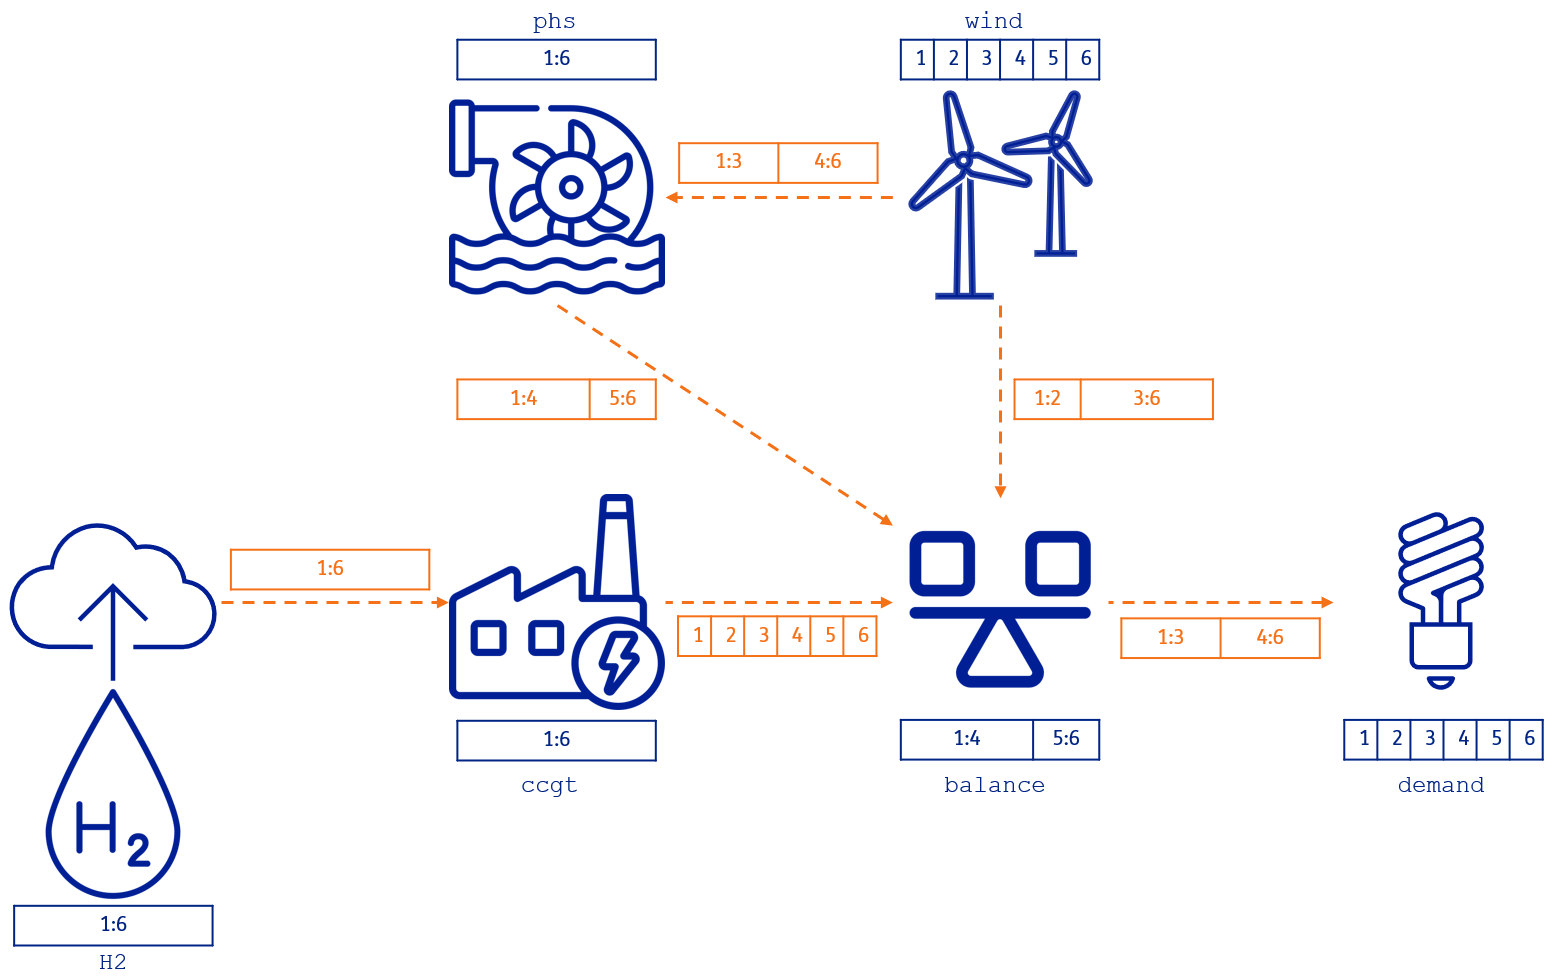
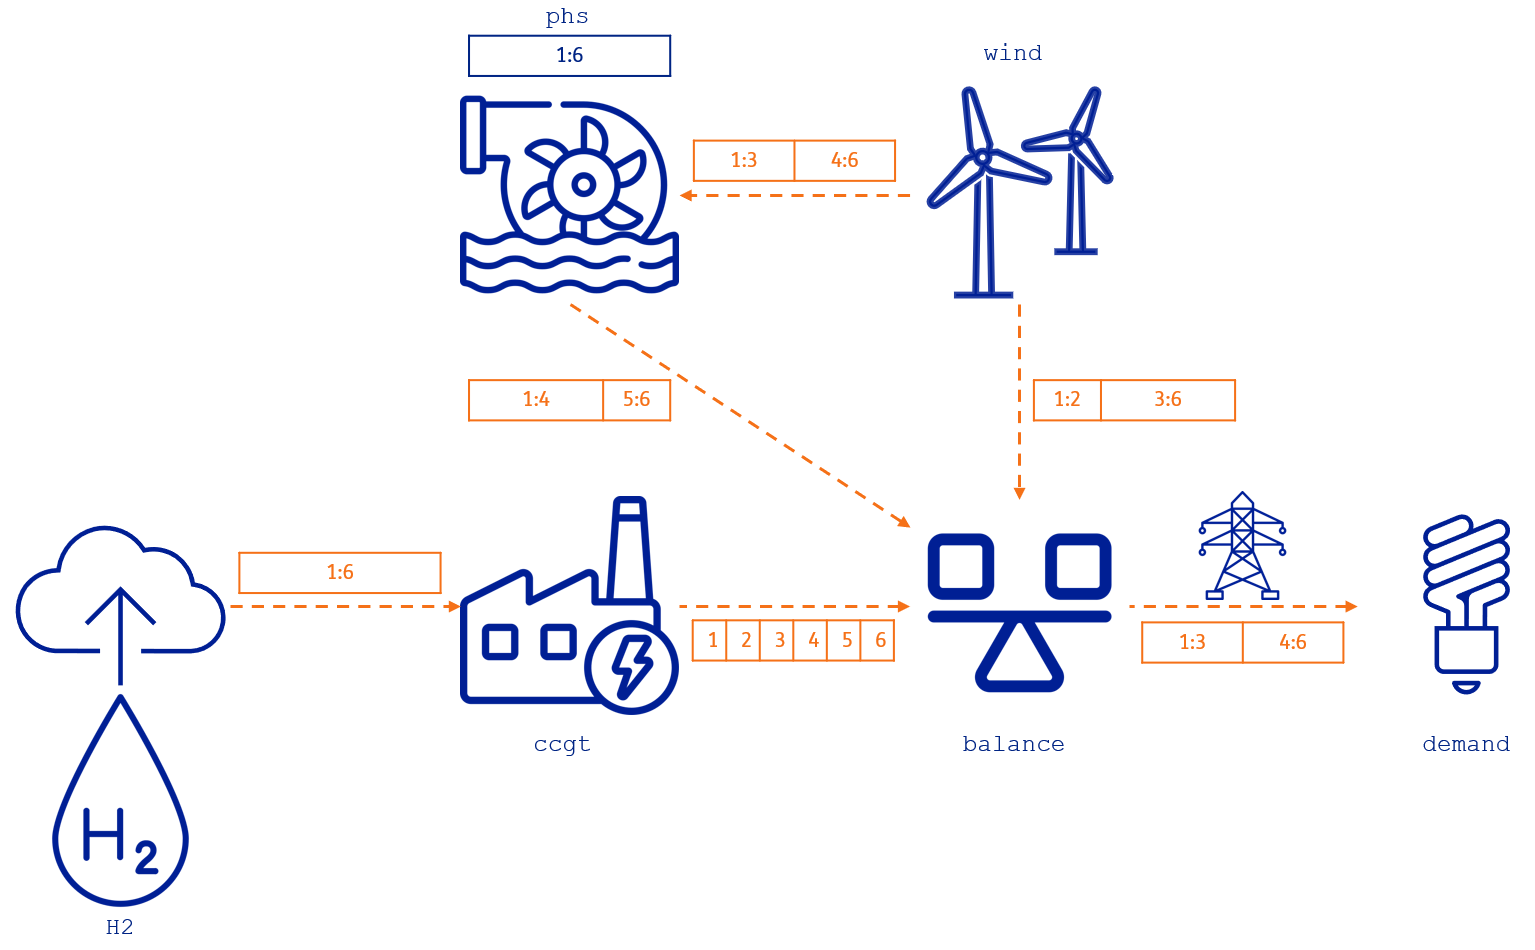
Updates on the feature section (#363)
* Updates on the feature section

* Update flexible connection in the feature section

* Fix how-to-use section

* Apply suggestions from code review

* Apply suggestion from code review

* Update text with comments from the review

---------

diff --git a/docs/src/features.md b/docs/src/features.md
@@ -7,26 +7,81 @@
   - Consumer: electricity demand, heat demand
   - Storage: battery, pumped-hydro storage
   - Balancing Hub: electricity network that serves as a connection among other energy assets
-  - Conversion: power plants, electrolizers
+  - Conversion: power plants, electrolyzers
 - **Flows**: representation of the connections among assets, e.g., pipelines, transmission lines, or just simple the energy production that goes from one asset to another.
 
-This section explains the main features in the optimization model inside the model based on these definitions.
+The model guarantees a balance of energy for the various types of assets while considering the flow limits. The [`mathematical formulation`](@ref math-formulation) defines the flow variable ($v^{flow}_{f,rp,k}$) as the instantaneous value (e.g., power in MW) for each flow $f$ between two assets, representative period $rp$, and time step $k$. The time step $k$ can represent a single time step (e.g., 1, 2, 3...) or a range of time steps (e.g., 1:2, meaning that the variable represents the value of both time steps 1 and 2). For more examples and details on this topic, refer to the section on [flexible time resolution](@ref flex-time-res).
 
-## [Flexible Connexion of Energy Assets](@id flex-asset-connexion)
+The following sections explain the main features in the optimization model inside the model based on all these concepts and definitions.
 
-The representation of the energy system in *TulipaEnergyModel.jl* is based on [Graph Theory](https://www.britannica.com/topic/graph-theory), which deals with connection amongst vertices by edges. This representation provides a more flexible framework to model *energy assets* in the system as *vertices* and *flows* between energy assets as *edges*. In addition, it poses some advantages from the modelling perspective. For instance, connecting assets directly to each other without having a node between them allows for a reduction of the number of variables and constraints to represent different configurations (e.g., co-location of energy storage and renewable units to model a hybrid operation).
+## [Flexible Connection of Energy Assets](@id flex-asset-connection)
+
+The representation of the energy system in *TulipaEnergyModel.jl* is based on [Graph Theory](https://www.britannica.com/topic/graph-theory), which deals with connection amongst vertices by edges. This representation provides a more flexible framework to model *energy assets* in the system as *vertices* and *flows* between energy assets as *edges*. In addition, it poses some advantages from the modeling perspective. For instance, connecting assets directly to each other without having a node between them allows for a reduction of the number of variables and constraints to represent different configurations. For instance, it is becoming more and more common to have hybrid assets like `storage + renewable` (e.g., battery + solar), `electrolyzer + renewable` (e.g., electrolyzer + wind), or `renewable + hydro` (e.g., solar + hydro) that are located in the same site and share a common connection point to the grid.
+In hybrid configurations, flows from the grid are typically not allowed as they either do not permit charging from the grid or require green hydrogen production depending on the configuration.
+
+Consider the following example to demonstrate the benefits of this approach. In the classic connection approach, the nodes play a crucial role in modeling. For example, every asset needs to be connected to a node with balance constraints. When a storage asset and a renewable asset are in a hybrid connection like the one described before, a connection point is needed to connect the hybrid configuration to the rest of the system. Therefore, to consider the hybrid configuration of a storage asset and a renewable asset, we must introduce a node (i.e., a connection point) between these assets and the external power grid (i.e., a balance point), as shown in the following figure:
+
+![Classic connection](./figs/flexible-connection-1.png)
+
+In this system, the `phs` storage asset charges and discharges from the `connection point`, while the `wind` turbine produces power that also goes directly to the `connection point`. This `connection point` is connected to the external power grid through a transmission line that leads to a `balance` hub with/connecting to other assets. Essentially, the `connection point` acts as a balancing hub point for the assets in this hybrid configuration. Furthermore, these hybrid configuration impose an additional constraint to ensure that storage charges from the power grid are avoided. The section with [`comparison of different modeling approaches`](@ref comparison) shows the quantification of these reductions.
+
+Let's consider the modeling approach in *TulipaEnergyModel.jl*. As nodes are no longer needed to connect assets, we can connect them directly to each other as shown in the figure below:
+
+![Flexible connection](./figs/flexible-connection-2.png)
+
+By implementing this approach, we can reduce the number of variables and constraints involved in the process. For example, the balance constraint in the intermediate node is no longer needed, as well as the extra constraint to avoid the storage charging from the power grid.  Additionally, we can eliminate the variable that determines the flow between the intermediate node and the power grid because the flow from `phs` to `balance` can directly link to the external grid.
+
+The example here shows the connection of a `phs` and a `wind` asset, illustrating the modeling approach's advantages and the example's reusability in the following sections. However, other applications of these co-location (or hybrid) combinations of assets are battery-solar, hydro-solar, and electrolyzer-wind.
 
 ## [Flexible Time Resolution](@id flex-time-res)
 
-One of the core features of *TulipaEnergyModel.jl* is that it can handle different time resolutions on the assets and the flows. Typically, the time resolution in an energy model is hourly like in the following figure:
+One of the core features of *TulipaEnergyModel.jl* is that it can handle different time resolutions on the assets and the flows. Typically, the time resolution in an energy model is hourly like in the following figure where we have a six-hour energy system:
 
 ![Hourly Time Resolution](./figs/variable-time-resolution-1.png)
 
-It is possible to have different time resolutions for each asset and flow to simplify the optimization problem and approximate hourly representation. This feature is particularly useful for large-scale energy systems that involve different sectors, as detailed granularity is not always necessary due to the unique temporal dynamics of each sector. For instance, we can use hourly resolution for the electricity sector and six-hour resolution for the hydrogen sector. We can couple multiple sectors, each with its temporal resolution. The following figure illustrates how we can have fewer variables to represent the system in the model. Please note that the values presented here are just for illustrative purposes and do not represent a realistic case.
+Therefore, for this simple example we can determine the number of constraints and variables in the optimization problem:
+
+- *Number of variables*: 42 since we have six connections among assets (i.e., 6 flows x 6 hours = 36 variables) and one storage asset (i.e., 6 storage level x 6 h = 6 variables)
+- *Number of constraints*: 72, where:
+
+  - 24 from the maximum output limit of the assets that produce, convert, or discharge energy (i.e., `H2`, `wind`, `ccgt`, and `phs`) for each hour (i.e., 4 assets x 6 h = 24 constraints)
+  - 6 from the maximum input limit of the storage or charging limit for the `phs`
+  - 6 from the maximum storage level limit for the `phs`
+  - 12 from the import and export limits for the transmission line between the `balance` hub and the `demand`
+  - 24 from the energy balance on the consumer, hub, conversion, and storage assets (i.e., `demand`, `balance`, `ccgt`, and `phs`) for each hour (i.e., 4 assets x 6 h = 24 constraints)
+
+Depending on the input data and the level of detail you want to model, hourly resolution in all the variables might not be necessary. *TulipaEnergyModel.jl* has the possibility to have different time resolutions for each asset and flow to simplify the optimization problem and approximate hourly representation. This feature is particularly useful for large-scale energy systems that involve different sectors, as detailed granularity is not always necessary due to the unique temporal dynamics of each sector. For instance, we can use hourly resolution for the electricity sector and six-hour resolution for the hydrogen sector. We can couple multiple sectors, each with its temporal resolution.
+
+Let's explore the flexibility in the time resolution with the following examples. The following table shows the user input data for the asset time resolution definition. Please note that the values presented in this example are just for illustrative purposes and do not represent a realistic case.
+
+```@example print-partitions
+using DataFrames # hide
+using CSV # hide
+input_asset_file = "../../test/inputs/Variable Resolution/assets-partitions.csv" # hide
+assets = CSV.read(input_asset_file, DataFrame, header = 2) # hide
+assets = assets[assets.asset .!= "wind", :] # hide
+```
+
+The definitions for the assets are determined in a file called [`assets-partitions.csv`](@ref asset-partitions-definition). For instance, the example in the file shows that both the `H2` producer and the `phs` storage have a `uniform` definition of 6 hours. This means that we want to represent the `H2` production profile and the storage level of the `phs` every six hours.
+
+If an asset is not specified in this file, the balance equation will be written in the lowest resolution of both incoming and outgoing flows to the asset. For example, the incoming and outgoing flows to the hub asset (`balance`) will determine how often the balance constraint is written.
+
+The same type of definition can be done for the flows, for example (again, the values are for illustrative purposes and do not represent a realistic case):
+
+```@example print-partitions
+input_flow_file = "../../test/inputs/Variable Resolution/flows-partitions.csv" # hide
+flows_partitions = CSV.read(input_flow_file, DataFrame, header = 2) # hide
+```
+
+These definitions are determined in the [`flows-partitions.csv`](@ref flow-partitions-definition) file. The example shows a `uniform` definition for the flow from the hydrogen producer (`H2`) to the conversion asset (`ccgt`) of six hours, from the wind producer (`wind`) to the storage (`phs`) of three hours, and from the balance hub (`balance`) to the consumer (`demand`) of three hours, too. In addition, the flow from the wind producer (`wind`) to the balance hub (`balance`) is defined using the `math` specification of `1x2+1x4`, meaning that there are two time blocks, one of two hours (i.e., `1:2`) and another of four hours (i.e., `3:6`). Finally, the flow from the storage (`phs`) to the balance hub (`balance`) is defined using the `math` specification of `1x4+1x2`, meaning that there are two time blocks, one of four hours (i.e., `1:4`) and another of two hours (i.e., `5:6`).
+
+If a flow is not specified in this file, the flow time resolution will be for each time step by default (e.g., hourly). For instance, the flow from the `ccgt` to the hub `balance` will be written hourly in this example.
+
+The following figure illustrates these definition on the example.
 
 ![Variable Time Resolution](./figs/variable-time-resolution-2.png)
 
-Where:
+So, let's recap:
 
 - The hydrogen producer (`H2`) is in a six-hour resolution represented by the range `1:6`, meaning that the balance of the hydrogen produced is for every six hours.
 - The flow from the hydrogen producer to the ccgt power plant (`H2,ccgt`) is also in a six-hour resolution `1:6`.
@@ -40,9 +95,9 @@ Where:
 - The flow from the phs to the balance (`phs,balance`) represents the discharge of the `phs`. This flow has a variable resolution of two blocks from hour 1 to 4 (i.e., `1:4`) and from hour 5 to 6 (i.e., `5:6`), which differs from the one defined for the charging flow from the `wind` asset.
 - The `demand` consumption has hourly input data with one connection to the `balance` hub:
   - The flow from the balance hub to the demand (`balance,demand`) has a uniform resolution of three hours; therefore, it has two blocks, one from hour 1 to 3 (i.e., `1:3`) and the other from hour 4 to 6 (i.e., `4:6`).
-- The `balance` hub integrates all the different assets with their different resolutions. The highest resolution of all connections determines the balance equation for this asset. Therefore, the resulting resolution is into two blocks, one from hour 1 to 4 (i.e., `1:4`) and the other from hour 5 to 6 (i.e., `5:6`).
+- The `balance` hub integrates all the different assets with their different resolutions. The lowest resolution of all connections determines the balance equation for this asset. Therefore, the resulting resolution is into two blocks, one from hour 1 to 4 (i.e., `1:4`) and the other from hour 5 to 6 (i.e., `5:6`). Notice that the resulting resolution comes from using the function [`compute_rp_partition`](@ref), which applies a `:greedy` forward strategy to obtain the lowest resolution of all connecting assets. It is possible that other strategies, such as the backward strategy, could be helpful. However, these are outside the current scope of the model and may be the subject of future research.
 
-> **Note**
+> **Note:**
 > This example demonstrates that different time resolutions can be assigned to each asset and flow in the model. Additionally, the resolutions do not need to be uniform and can vary throughout the horizon.
 
 The complete input data for this example can be found in the following [link](https://github.com/TulipaEnergy/TulipaEnergyModel.jl/tree/main/test/inputs/Variable%20Resolution).
@@ -68,7 +123,7 @@ Since the storage asset has a resolution of six hours and both the charging and 
 
 #### Consumer Balance
 
-The demand input data is defined hourly; however, the flows coming from the balancing hub are defined every three hours. Therefore, the flows impose the lowest resolution on this occasion, and the balance at the demand is done every three hours. The input demand is aggregated for each time block. As in the storage balance, the flows are multiplied by their duration.
+The flows coming from the balancing hub are defined every three hours. Therefore, the flows impose the lowest resolution and the balance at the demand is done every three hours. The input demand is aggregated as the sum of the hourly values in the input data. As in the storage balance, the flows are multiplied by their duration.
 
 ```math
 \begin{aligned}
@@ -81,7 +136,7 @@ The demand input data is defined hourly; however, the flows coming from the bala
 
 #### Hub Balance
 
-The hub balance is quite interesting because it integrates several flow resolutions. The lowest resolution of all assets in the whole horizon implies that the hub balance must be imposed for two blocks, `1:4` and `5:6`. The balance must account for each flow variable's duration in each block.
+The hub balance is quite interesting because it integrates several flow resolutions. Remember that we didn't define any specific time resolution for this asset. Therefore, the lowest resolution of all incoming and outgoing flows in the horizon implies that the hub balance must be imposed for two blocks, `1:4` and `5:6`. The balance must account for each flow variable's duration in each block.
 
 ```math
 \begin{aligned}
@@ -160,6 +215,8 @@ The `wind` producer asset is interesting because the output flows are in differe
 \end{aligned}
 ```
 
+Since the flow variables `$flow_{(wind,balance),1:2}$` and `$flow_{(wind,balance),1:3}$` represent power, the first constraint sets the upper bound of the power for both time step 1 and 2, by assuming an average capacity across these two time steps. The same applies to the other two constraints.
+
 The hydrogen (H2) producer capacity limit is straightforward since both the asset and the flow definition are in the exact time resolution:
 
 ```math
@@ -176,17 +233,57 @@ For the connection from the hub to the demand there are associated transmission 
 ```math
 \begin{aligned}
 & max\_transport\_flows\_limit_{(balance,demand),1:3}: \\
-& \qquad flow_{(balance,demand),1:3} \leq p^{export\_capacity}_{(balance,demand)} \\
+& \qquad flow_{(balance,demand),1:3} \leq p^{init\_export\_capacity}_{(balance,demand)} \\
 & max\_transport\_flows\_limit_{(balance,demand),4:6}: \\
-& \qquad flow_{(balance,demand),4:6} \leq p^{export\_capacity}_{(balance,demand)} \\
+& \qquad flow_{(balance,demand),4:6} \leq p^{init\_export\_capacity}_{(balance,demand)} \\
 \end{aligned}
 ```
 
 ```math
 \begin{aligned}
 & min\_transport\_flows\_limit_{(balance,demand),1:3}: \\
-& \qquad flow_{(balance,demand),1:3} \geq - p^{import\_capacity}_{(balance,demand)} \\
+& \qquad flow_{(balance,demand),1:3} \geq - p^{init\_import\_capacity}_{(balance,demand)} \\
 & min\_transport\_flows\_limit_{(balance,demand),4:6}: \\
-& \qquad flow_{(balance,demand),4:6} \geq - p^{import\_capacity}_{(balance,demand)} \\
+& \qquad flow_{(balance,demand),4:6} \geq - p^{init\_import\_capacity}_{(balance,demand)} \\
 \end{aligned}
 ```
+
+### Storage Level limits
+
+Since we have a storage asset in the system, we need to limit the maximum storage level. The `phs` time resolution is defined for each six hours, so we only have one constraint.
+
+```math
+\begin{aligned}
+& max\_storage\_level\_limit_{phs,1:6}: \\
+& \qquad storage\_level_{phs,1:6} = p^{init\_storage\_capacity}_{phs}
+\end{aligned}
+```
+
+## [Comparison of Different Modeling Approaches](@id comparison)
+
+This section quantifies the advantages of the [`flexible connection`](@ref flex-asset-connection) and [`flexible time resolution`](@ref flex-time-res) in the *TulipaEnergyModel.jl* modeling approach. So, let us consider three different approaches based on the same example:
+
+1. Classic approach with hourly resolution: This approach need and extra asset, called `node`, to create the hybrid operation of the `phs` and `wind` assets.
+2. Flexible connection with hourly resolution: This approach use the flexible connection to represent the hybrid operation of the  `phs` and `wind` assets.
+3. Flexible connection and time resolution: This approach use both features, the felxible connection and the flexible time resolution.
+
+> **Note:** *TulipaEnergyModel.jl* is flexible enough to allow any of these three approaches to the model through the input data.
+
+The table below shows the number of constraints and variables for each approach over a six-hour horizon. This highlights the potential of flexible time resolution in reducing the size of the optimization model.
+
+| Modeling approach                          | Nº Variables | Nº Constraints | Objective Function |
+|:-------------------------------------------|:------------ |:---------------|:------------------ |
+| Classic approach with hourly resolution    | 48           | 84             | 28.4365            |
+| Flexible connection with hourly resolution | 42           | 72             | 28.4365            |
+| Flexible connection and time resolution    | 16           | 25             | 28.4587            |
+
+By comparing the classic approach with the other methods, we can analyze their differences:
+
+- The flexible connection with hourly resolution reduces 6 variables ($12.5\%$) and 12 constraints ($\approx 14\%$). The objective function is the same since in both cases we use an hourly time resolution.
+- The combination of features reduces 32 variables ($\approx 67\%$) and 59 constraints ($\approx 70\%$) with an approximation error of $\approx 0.073\%$.
+
+The level of reduction and approximation error will depend on each case. The example demonstrates the potential for reduction and accuracy using the flexible time resolution feature in *TulipaEnergyModel.jl*. Some use cases for this feature include:
+
+- Coupling different energy sectors with different dynamics. For instance, methane, hydrogen, and heat sectors can be represented in energy models with lower resolutions (e.g. 4, 6, or 12h) than the electricity sector, usually modeled in higher resolutions (e.g., 1h, 30 min).
+
+- It may not be necessary to have highly detailed resolutions for all your assets in a large-scale electricity case study. For example, if you are analyzing a European case study that focuses on a specific country like The Netherlands, you may not require hourly details for distant countries. However, you would still want to consider their effect, such as Portugal and Spain. In such cases, flexible time resolution can help you maintain hourly details for assets in your focus country while reducing the detail in distant countries by increasing their resolution to two hours or more, depending on the desired level of accuracy. This will reduce the variables in the assets of the distant country.

diff --git a/docs/src/how-to-use.md b/docs/src/how-to-use.md
@@ -92,7 +92,7 @@ end
 Markdown.parse(out)
 ```
 
-#### `assets-partitions.csv`
+#### [`assets-partitions.csv`](@id asset-partitions-definition)
 
 Contains a description of the [partition](@ref Partition) for each asset.
 If not specified, each asset will have the same time resolution as representative period.
@@ -124,7 +124,7 @@ end
 Markdown.parse(out)
 ```
 
-#### `flows-partitions.csv`
+#### [`flows-partitions.csv`](@id flow-partitions-definition)
 
 Similar to `assets-partitions.csv`, but for flows.
 
